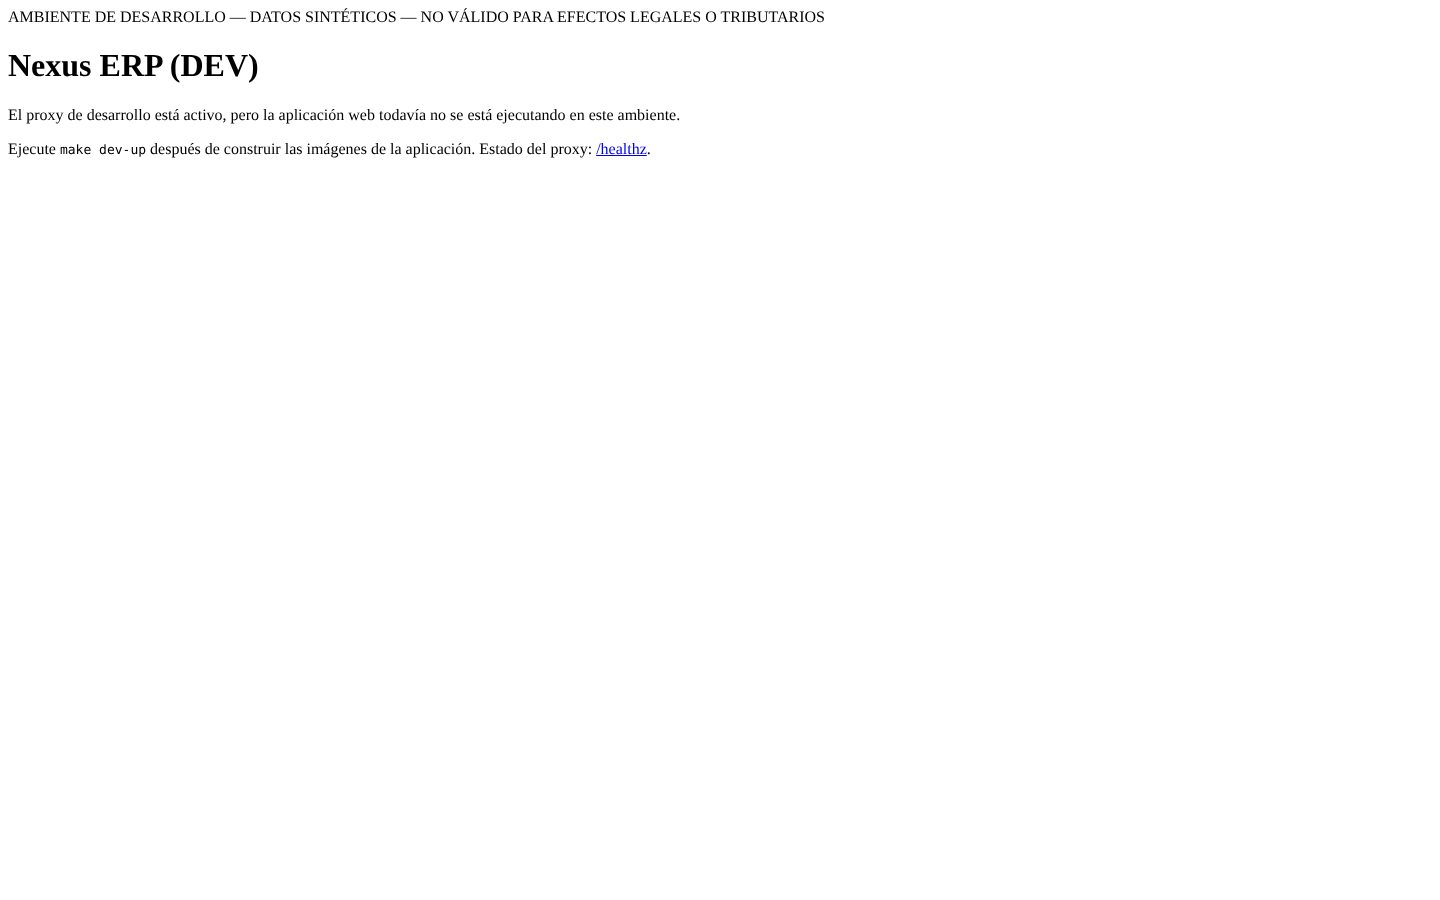
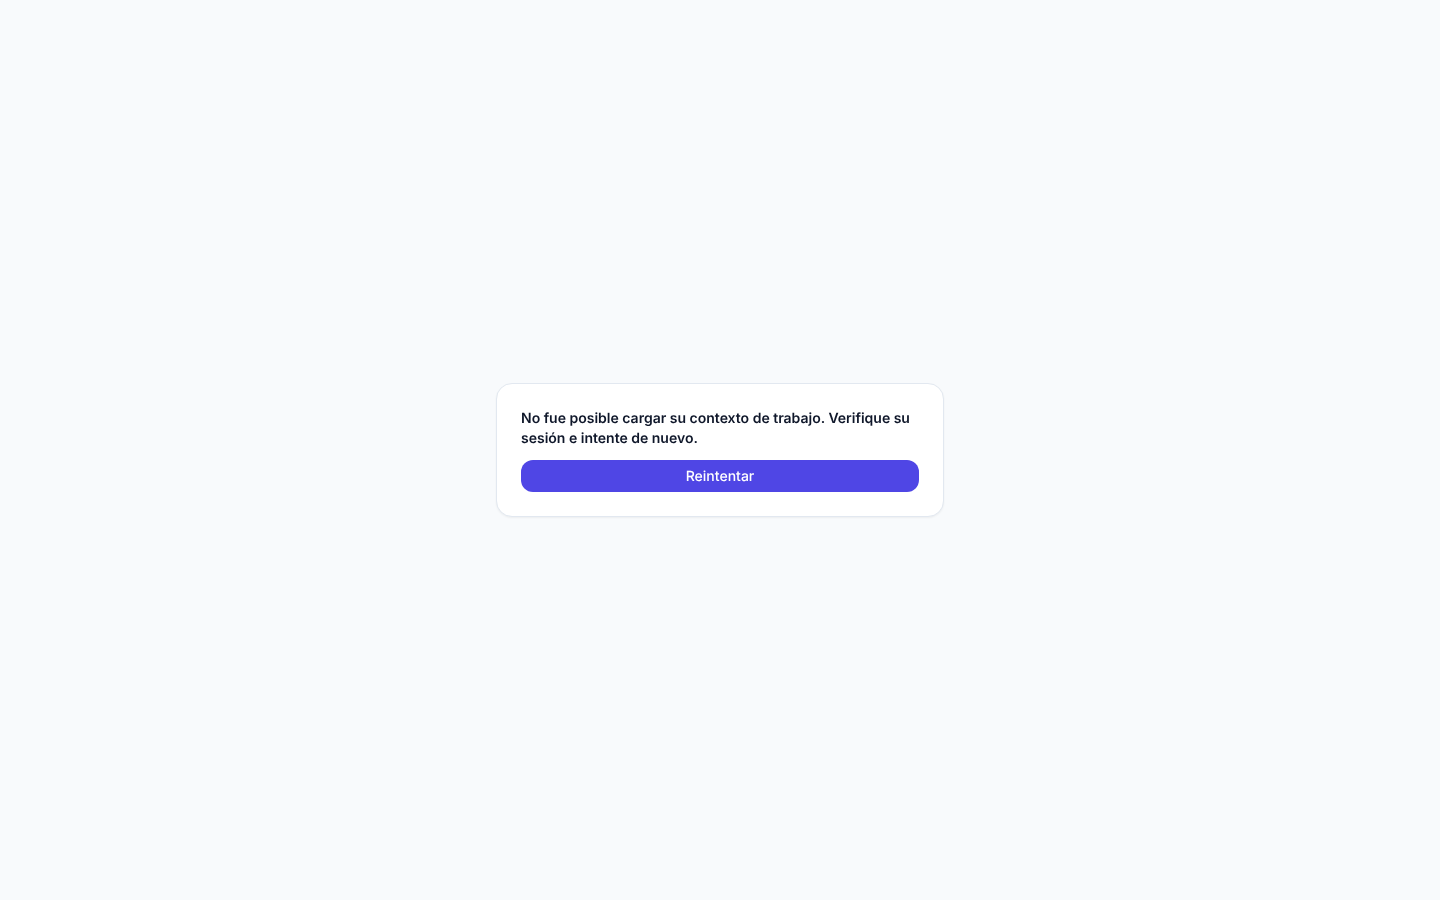
ui preview after wave 02
Nexus-Integrator: wave 02 ui preview

diff --git a/docs/ui-progress/W02/INDEX.md b/docs/ui-progress/W02/INDEX.md
@@ -1,10 +1,12 @@
 # UI progress — after wave 02
 
-Integrated commit: `422e4e7e6b7e` · captured 2026-11-09T21:21:00Z (UTC) · viewport 1440×900 · device scale 1 · 0.06 MB · browser: system Chrome via Playwright 1.65.0
+Integrated commit: `dce41660cfed` · captured 2026-11-10T01:00:11Z (UTC) · viewport 1440×900 · device scale 1 · 0.03 MB · browser: system Chrome via Playwright 1.65.0
 
-**Status: FAILED** — no demo login available: only the entry screen was captured; login: no demo login found in deploy/dev/secrets/ (gitignored)
+**Status: FAILED** — login form not found (no sign-in button, and /m/inicio did not redirect to the identity provider)
 
 Synthetic seeded data only (DEV). Password, token and secret fields are masked. Pages not yet built are listed, never faked. Contract notes are automatic measurements against docs/spec/UI-CONTRACT.md §3 (header 64 px, sidebar 256/80 px, AI panel 320 px).
+
+Signed in as: throwaway DEV user `ui-preview` of a synthetic tenant, bootstrapped by tools/dev_login.py (password only in deploy/dev/secrets/ui-preview.env, 0600, rotated each run)
 
 | Page | Route | Theme / variant | Status | Contract notes |
 |---|---|---|---|---|
